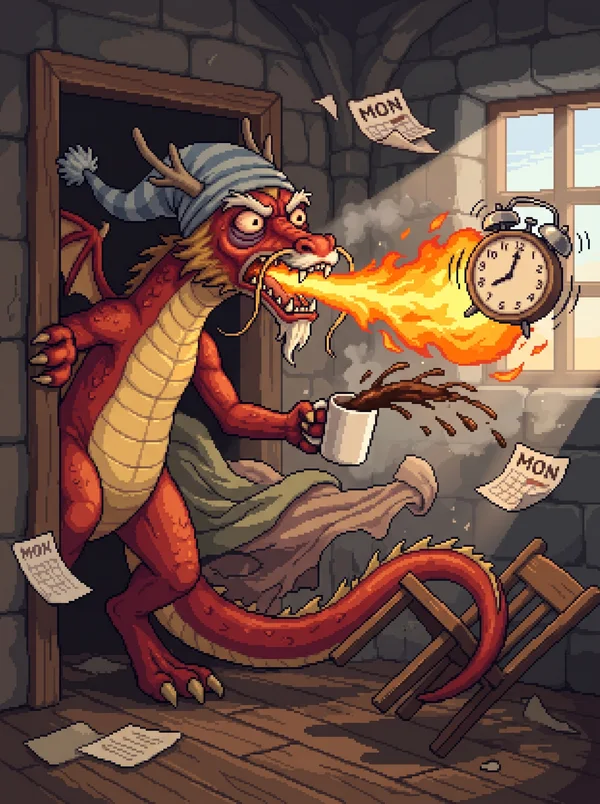
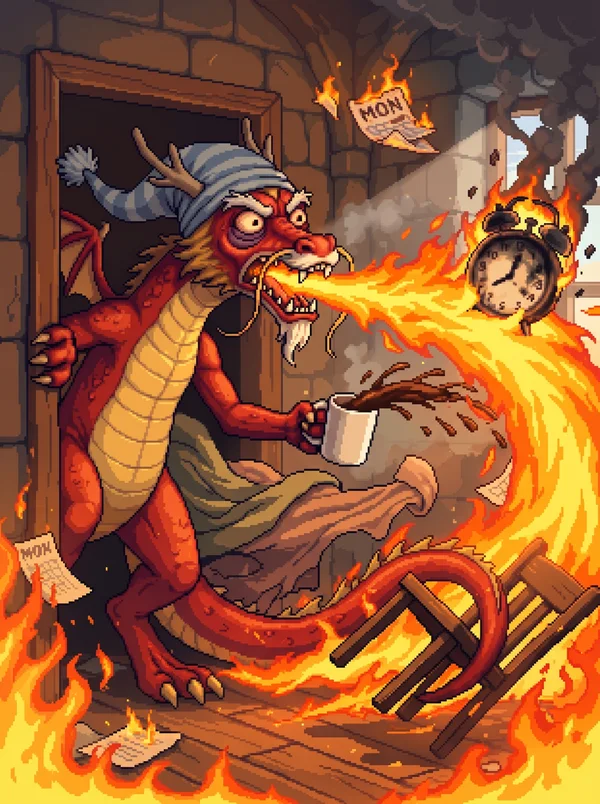
Neues alternatives Artwork für den Drachen des Montagmorgens
Claude-Session: https://claude.ai/code/session_01RTvd2LwEyaHrr3BB8V3DK4

diff --git a/spiel/sw.js b/spiel/sw.js
@@ -1,5 +1,5 @@
 /* Service Worker: macht die App offline spielbar. Wird von build_mobile.py erzeugt. */
-const CACHE = 'loota-2587931555';
+const CACHE = 'loota-cc5d825e24';
 const FILES = [
 "./",
 "index.html",
